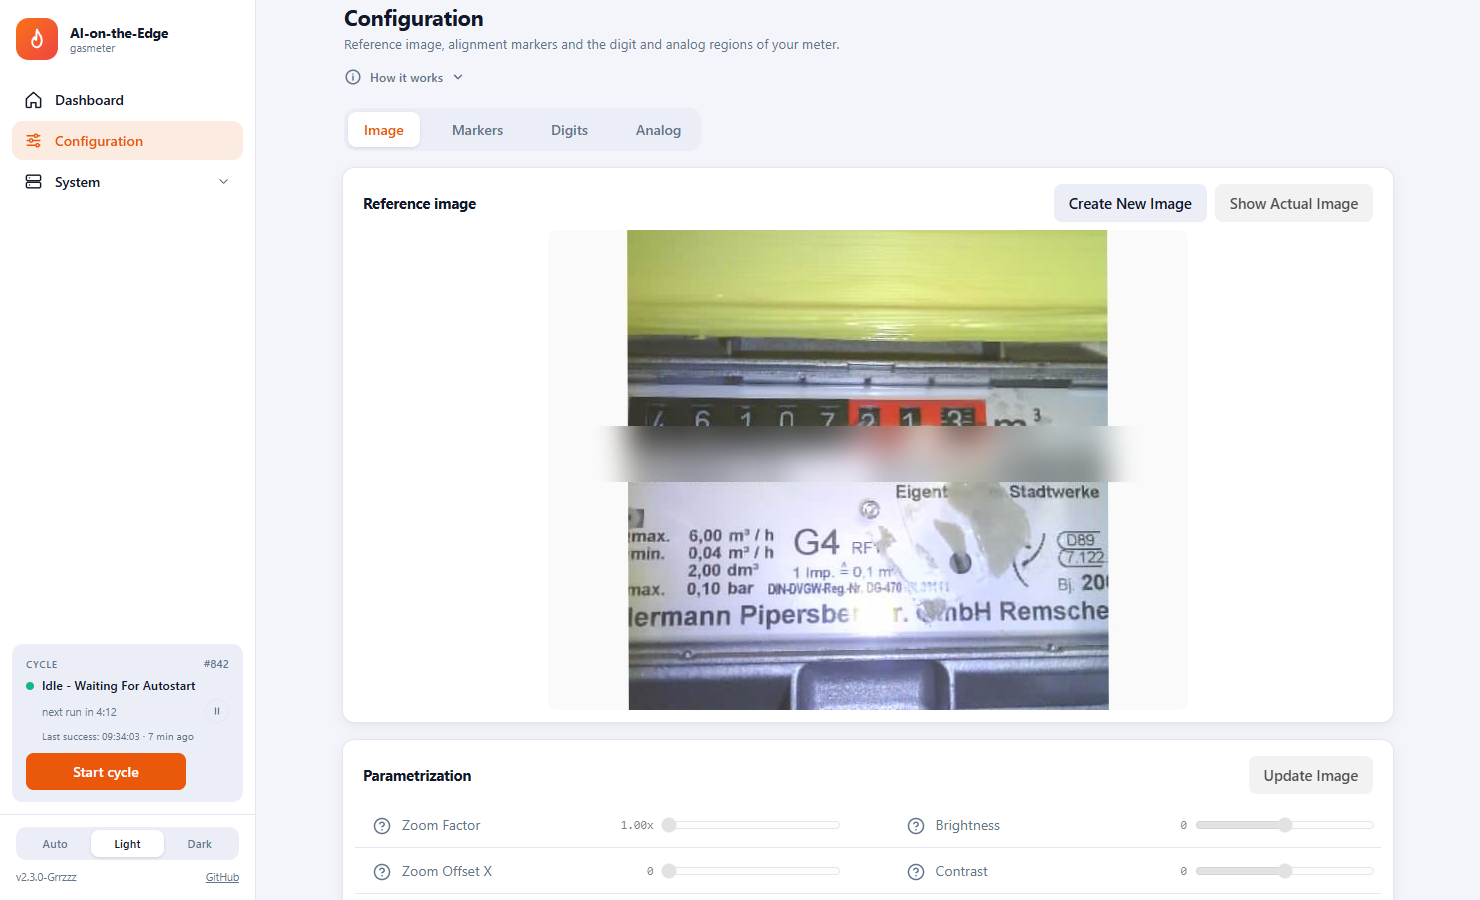
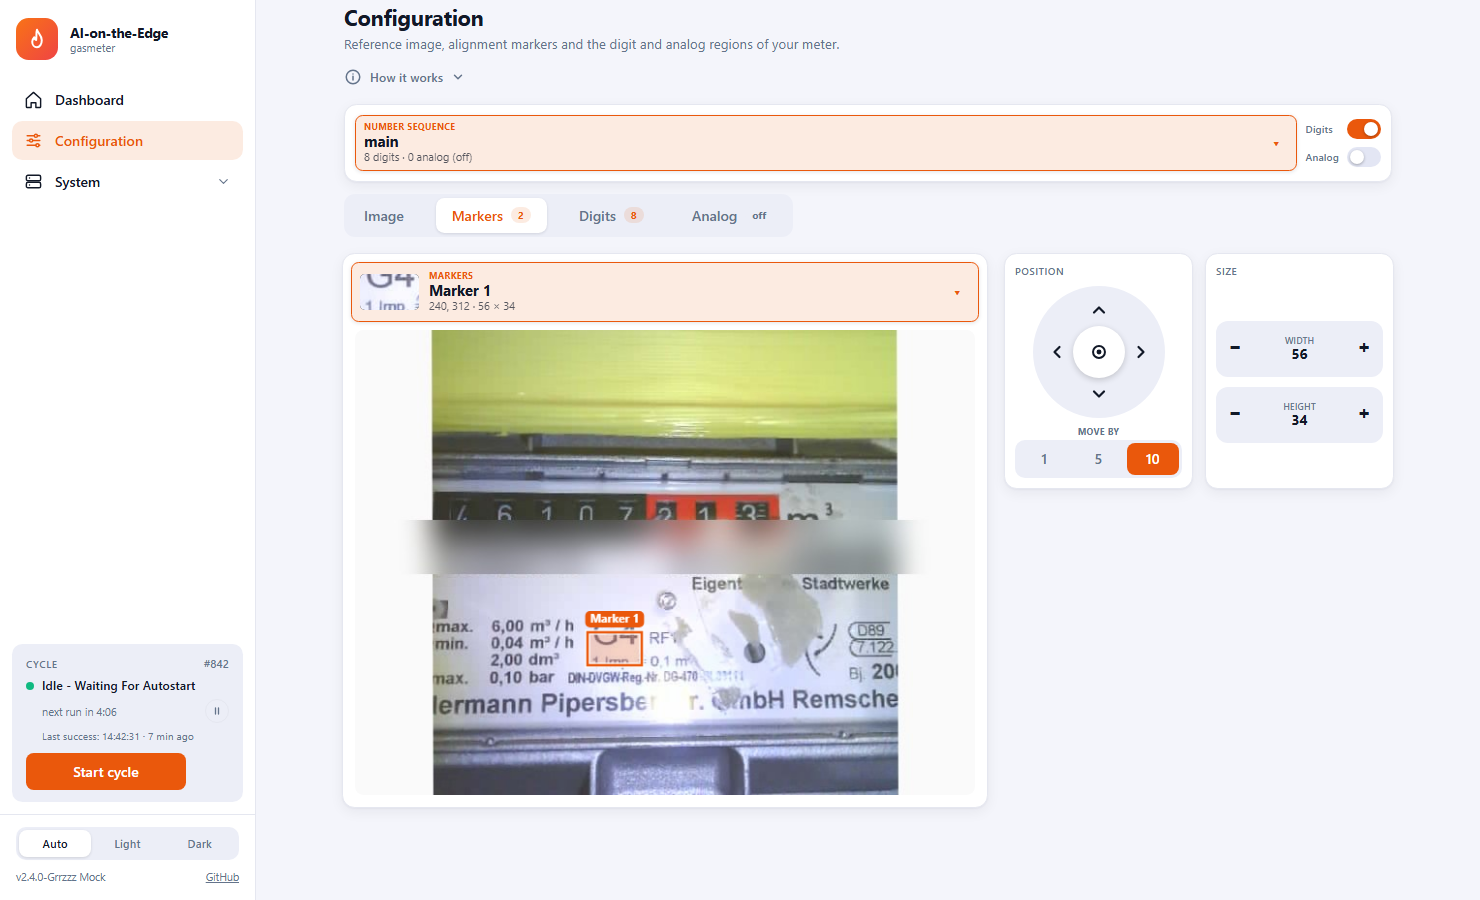
docs: README and screenshots for 2.4, MCP beta note, WebUI configuration editor

diff --git a/README.md b/README.md
@@ -15,6 +15,27 @@ backend and a one-click update from GitHub, and trims the firmware to the `esp32
   <img src="docs/images/ui-dashboard.png" width="800" alt="Dashboard">
 </p>
 
+## What is new in 2.4
+
+- **Configuration for phones and tablets - and for the desktop** - the editor was rebuilt around one control layer: a number sequence
+  combo box with the switches for digits and analog (rename, delete and add right in the list), a region combo box with a preview of every
+  region (move up and down, copy, delete, add), a position pad with a jog stick, steppers for the size and options. The image floats
+  while you scroll, regions can be dragged with the finger, and "Zoom in" follows the selected region. The same layout is used on
+  the desktop (image left, controls right). Regions and markers are drawn like on the dashboard, the selected one in the accent color
+- **Image tab simplified** - one "Update image" button, the settings are blurred until a picture was taken. Rotation, zoom, flash,
+  brightness and the other camera values are sliders with -/+ buttons, mirror and flip are switches, everything rarely needed sits behind
+  an **Advanced** switch (remembered in the browser)
+- **MCP server (beta)** - optional [Model Context Protocol](docs/API/REST/mcp.md) server on the device. An assistant such as Claude can read
+  status, recognition and images, place alignment markers and regions, change settings and start cycles. Off by default, protected by a
+  token that the device generates (it survives restarts), system actions (delete files, reboot, update) behind a second switch.
+  Manage it under `System > MCP`. **Beta: compiled and tested against the web interface mock, not yet over a longer time on a device**
+- **Dashboard** - a pill with the number of cycles in the uptime card, a services card (MQTT, MCP), rolling counter digits, the
+  countdown as a pill in the process state, no second animation after a manual start
+- **Models** - the model combo shows age, size and typical use of each model with a short help text
+- Fix: the confidence of the `class100` models is computed with a softmax (digits showed 0 %, analog 100 %). Compiled, not yet checked
+  on a device
+- Fix: toggling digits or analog in the configuration no longer jumps to another tab
+
 ## What is new in 2.3
 
 - **Menu entries are real links** - the middle mouse button, Ctrl/Shift + click and the context menu open a page in a new tab
@@ -96,8 +117,13 @@ backend and a one-click update from GitHub, and trims the firmware to the `esp32
 |:---:|:---:|
 | <img src="docs/images/ui-files.png" width="400"> | <img src="docs/images/ui-dashboard-dark.png" width="400"> |
 
+| MCP server (beta) |
+|:---:|
+| <img src="docs/images/ui-mcp.png" width="400"> |
+
 <p align="center">
   <img src="docs/images/ui-mobile.png" width="260" alt="Mobile dashboard">
+  <img src="docs/images/ui-mobile-config.png" width="260" alt="Mobile configuration">
 </p>
 
 ## Key features
@@ -106,6 +132,7 @@ backend and a one-click update from GitHub, and trims the firmware to the `esp32
 - **On-device AI** - TensorFlow Lite models for digital and analog counters
 - **Integrations** - [Home Assistant discovery](docs/API/MQTT/home-assistant-discovery.md), [MQTT](docs/API/MQTT/_OVERVIEW.md)
   (TLS supported), InfluxDB v1/v2, webhook, [REST](docs/API/REST/_OVERVIEW.md)
+- **AI assistants (beta)** - optional [MCP server](docs/API/REST/mcp.md) so that Claude and friends can place markers and look after the device
 - **Flashlight** - onboard LED or external PWM or smart LEDs
 - **Easy maintenance** - backup and restore, file explorer, OTA update, dynamic config reload without reboot
 

diff --git a/AGENTS.md b/AGENTS.md
@@ -1,6 +1,6 @@
 # AGENTS.md - briefing for AI assistants working on this repository
 
-Read this first. It describes the project, the current state (release **2.3 "Grrzzz"**, tag `v2.3.0-Grrzzz`), how to build and test, the
+Read this first. It describes the project, the current state (release **2.4 "Grrzzz"**, tag `v2.4.0-Grrzzz`), how to build and test, the
 rules of the owner and the pitfalls we already ran into. The owner speaks **German**: answer in German, keep code, commit messages and
 documentation in English.
 
@@ -76,9 +76,10 @@ Single page app, hash routes, no framework. Read `docs/WebUI/README.md`. Key par
   `GET /api/live`, falls back to a replay when the firmware has no `/api/live`).
 - Setup (schema driven, `SCHEMA`), Configuration editor (image, markers, digits, analog), wizard, file explorer, backup/restore, v16 import
   (`LegacyImport`).
-Configuration editor on phones (max-width 860 px): an extra control layer (`.m-only`: sequence bar, region chips, pad with jog, steppers) drives the same
-functions as the desktop fields (`onValueManualChanged`, `markerValueChanged`, ...); the desktop cards are hidden by `.m-hide`. On a phone the canvas moves the
-selected region by dragging instead of drawing it. Desktop is untouched. Design proof: `tools/webui/mock/poc/config-digits-mobile.html`.
+Configuration editor (all widths): a control layer (`.m-only`: sequence bar, region combo with move, copy and delete per entry, pad with jog, zoom switch over the image, steppers, options) drives the same
+functions as the original fields (`onValueManualChanged`, `markerValueChanged`, ...); the original cards are hidden by `.m-hide` but still work. The canvas moves
+the selected region by dragging, the size is changed with the steppers. Below 1256 px the image stays in view (sticky), below 860 px tabs and the image tab are
+compacted. Design proof: `tools/webui/mock/poc/config-digits-mobile.html`.
 Conventions: no emojis, no inline handlers, ids/classes carry the view prefix (`dash-`, `rec-`, `setup-`, `cfg-`, `sys-`), tokens in
 `:root` (light/dark) in `style.css`, mobile breakpoint 860 px (menu) / 1156 px (dashboard layout).
 
@@ -104,7 +105,8 @@ Conventions: no emojis, no inline handlers, ids/classes carry the view prefix (`
 - Confidence: the class100 models (`dig-class100*`, `ana-class100*`) end with a fully connected layer **without softmax** (checked in the
   .tflite files), their outputs are raw logits. The confidence therefore applies a softmax first (`ClassFlowCNNGeneral.cpp`); the earlier
   sum of the raw outputs gave 0 % for digits and 100 % for analog. `dig-class11` and `dig-cont` have a softmax. Not yet verified on a device.
-- Open questions: analog ROIs of the live view are only tested with the mock.
+- Open questions: analog ROIs of the live view are only tested with the mock. The MCP server is marked **beta** (never run for a longer time on a
+  device); the configuration editor was only tested in the mock (phone width in the browser, not on a real touch screen).
 
 ## Releasing (only when the owner asks)
 

diff --git a/docs/WebUI/README.md b/docs/WebUI/README.md
@@ -9,7 +9,7 @@ Single page app, three files in `sd-card/html/`:
 | `style.css` | Tokens, shell, design system, toasts, one section per view |
 
 Routing is hash based: `#/dashboard`, `#/recognition`, `#/config[/image|markers|digits|analog]` (Configuration: reference image, markers, regions), `#/wizard`,
-`#/system/setup[/general|network|recognition|mqtt|camera|gpio]` (Setup: device, network, MQTT), `#/system/info|update|backup|files|reboot`.
+`#/system/setup[/general|network|recognition|mqtt|camera|gpio]` (Setup: device, network, MQTT), `#/system/mcp` (optional MCP server, beta), `#/system/info|update|backup|files|reboot`.
 The wizard opens automatically when the device is called without a route while the operation mode is `Setup`.
 
 ## Conventions
@@ -28,3 +28,16 @@ The Api objects talk to JSON endpoints (details in `docs/API/REST`): `GET /info`
 Endpoints that deliver files or streams stay as they are: `/log`, `/data` (log files), `/camera` (images), `/coredump` (binary),
 `/upload`, `/delete`, `/ota/<file>` (uploads) and the scalar text variants `/info?type=` and `/process_data?type=` for integrations.
 Moving another endpoint to JSON only changes its `Api` method in `app.js`.
+
+## Configuration editor (`#/config`)
+
+One control layer for all widths; the original fields of the editor stay in the DOM (hidden with `.m-hide`) and keep the data logic.
+
+- **Number sequence** combo above the tabs (rename, delete, add inline), switches for digit and analog processing. A switched-off kind greys out the
+  controls of its tab.
+- **Region / marker combo** in the image card (`mComboRender`): preview canvas, move up / down, copy, delete, inline add.
+- **Position** (pad, jog stick, "move by") and **Size** (steppers) cards; dragging in the image moves the selected region.
+- **Image overlays** share one look (`drawRoiMark`, `drawBadge`): soft fill, frame, rounded name badge; the selected item is solid with a halo, the others
+  are transparent. "Zoom in" scales the canvas with a CSS transform (lines and text keep their size).
+- **Image tab**: the camera values are custom controls (`camPanelMarkup`, `CAM_UI`) that drive the native inputs (`data-param`), which stay the source of
+  truth. Advanced values sit behind a switch kept in `localStorage` (`camAdvanced`). The settings are blurred until a picture was taken.

diff --git a/docs/API/REST/mcp.md b/docs/API/REST/mcp.md
@@ -6,6 +6,9 @@ Optional [Model Context Protocol](https://modelcontextprotocol.io) server on the
 streaming). An AI assistant such as Claude Code can read the device, move alignment markers and regions of interest, change settings
 and start cycles. **Off by default.** Switch it on in the WebUI: `System > MCP`.
 
+> **Beta.** The MCP server is new in 2.4. It compiles and the WebUI side is tested against the mock, but it has not run for a long
+> time on a device yet. Expect rough edges and report them. The tool set and the answers may still change.
+
 ### Access token
 
 * Created by the device (32 bytes from the hardware random generator, hex) when the server is switched on for the first time, or with
